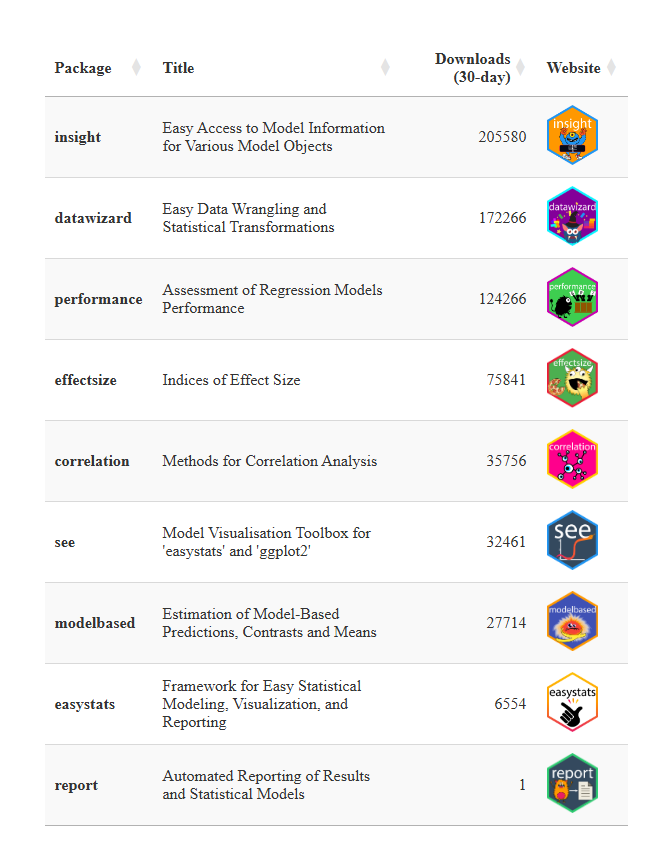
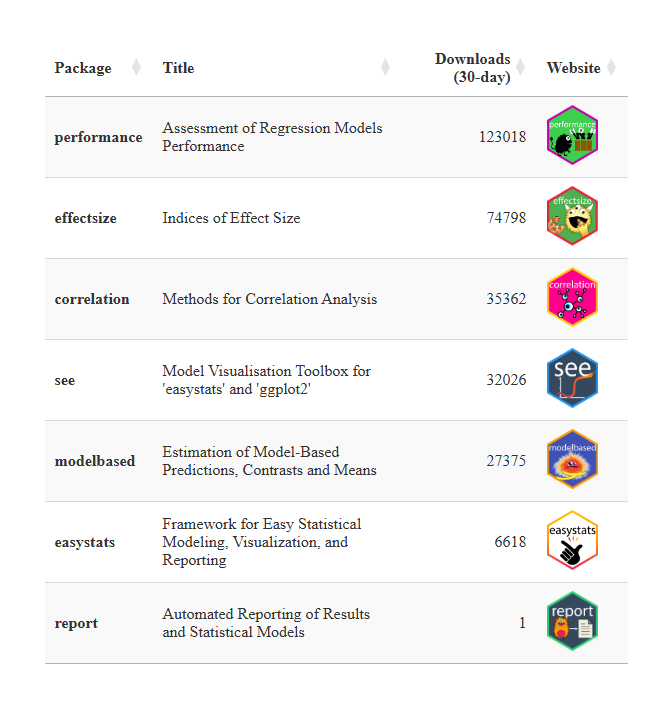
readme

diff --git a/index.html b/index.html
@@ -2856,26 +2856,26 @@ congratulations!</h1>
 
 <p>However, you might have more luck looking at my official website: <a href="https://remi-theriault.com/">https://remi-theriault.com/</a></p>
 <p>Also, kudos! As a bonus, you get to see the exclusive list of all my
-packages</p>
+packages:</p>
 <div id="cran-packages" class="section level3">
 <h3>CRAN Packages</h3>
-<div class="datatables html-widget html-fill-item" id="htmlwidget-690de99876a261b2a0b3" style="width:100%;height:auto;"></div>
-<script type="application/json" data-for="htmlwidget-690de99876a261b2a0b3">{"x":{"filter":"none","vertical":false,"data":[["<strong>rempsyc<\/strong>","<strong>lavaanExtra<\/strong>"],["Convenience Functions for Psychology","Convenience Functions for Package 'lavaan'"],[9792,682],["<a href=\"https://rempsyc.remi-theriault.com\" target=\"_blank\"><img src=\"https://rempsyc.remi-theriault.com/logo.png\" height=\"60\"><\/a>","<a href=\"https://lavaanExtra.remi-theriault.com\" target=\"_blank\"><img src=\"https://lavaanExtra.remi-theriault.com/logo.png\" height=\"60\"><\/a>"]],"container":"<table class=\"stripe hover row-border order-column\">\n  <thead>\n    <tr>\n      <th>Package<\/th>\n      <th>Title<\/th>\n      <th>Downloads (30-day)<\/th>\n      <th>Website<\/th>\n    <\/tr>\n  <\/thead>\n<\/table>","options":{"pageLength":25,"autoWidth":true,"dom":"t","columnDefs":[{"className":"dt-right","targets":2},{"name":"Package","targets":0},{"name":"Title","targets":1},{"name":"Downloads (30-day)","targets":2},{"name":"Website","targets":3}],"order":[],"orderClasses":false}},"evals":[],"jsHooks":[]}</script>
+<div class="datatables html-widget html-fill-item" id="htmlwidget-35331e03b09155016b00" style="width:100%;height:auto;"></div>
+<script type="application/json" data-for="htmlwidget-35331e03b09155016b00">{"x":{"filter":"none","vertical":false,"data":[["<strong>rempsyc<\/strong>","<strong>lavaanExtra<\/strong>"],["Convenience Functions for Psychology","Convenience Functions for Package 'lavaan'"],[9748,672],["<a href=\"https://rempsyc.remi-theriault.com\" target=\"_blank\"><img src=\"https://rempsyc.remi-theriault.com/logo.png\" height=\"60\"><\/a>","<a href=\"https://lavaanExtra.remi-theriault.com\" target=\"_blank\"><img src=\"https://lavaanExtra.remi-theriault.com/logo.png\" height=\"60\"><\/a>"]],"container":"<table class=\"stripe hover row-border order-column\">\n  <thead>\n    <tr>\n      <th>Package<\/th>\n      <th>Title<\/th>\n      <th>Downloads (30-day)<\/th>\n      <th>Website<\/th>\n    <\/tr>\n  <\/thead>\n<\/table>","options":{"pageLength":25,"autoWidth":true,"dom":"t","columnDefs":[{"className":"dt-right","targets":2},{"name":"Package","targets":0},{"name":"Title","targets":1},{"name":"Downloads (30-day)","targets":2},{"name":"Website","targets":3}],"order":[],"orderClasses":false}},"evals":[],"jsHooks":[]}</script>
 </div>
 <div id="easystats-packages" class="section level3">
 <h3>easystats Packages</h3>
-<div class="datatables html-widget html-fill-item" id="htmlwidget-a2650091af8654e7c194" style="width:100%;height:auto;"></div>
-<script type="application/json" data-for="htmlwidget-a2650091af8654e7c194">{"x":{"filter":"none","vertical":false,"data":[["<strong>insight<\/strong>","<strong>datawizard<\/strong>","<strong>performance<\/strong>","<strong>effectsize<\/strong>","<strong>correlation<\/strong>","<strong>see<\/strong>","<strong>modelbased<\/strong>","<strong>easystats<\/strong>","<strong>report<\/strong>"],["Easy Access to Model Information for Various Model Objects","Easy Data Wrangling and Statistical Transformations","Assessment of Regression Models Performance","Indices of Effect Size","Methods for Correlation Analysis","Model Visualisation Toolbox for 'easystats' and 'ggplot2'","Estimation of Model-Based Predictions, Contrasts and Means","Framework for Easy Statistical Modeling, Visualization, and\nReporting","Automated Reporting of Results and Statistical Models"],[205580,172266,124266,75841,35756,32461,27714,6554,1],["<a href=\"https://easystats.github.io/insight/\" target=\"_blank\"><img src=\"https://easystats.github.io/insight//logo.png\" height=\"60\"><\/a>","<a href=\"https://easystats.github.io/datawizard/\" target=\"_blank\"><img src=\"https://easystats.github.io/datawizard//logo.png\" height=\"60\"><\/a>","<a href=\"https://easystats.github.io/performance/\" target=\"_blank\"><img src=\"https://easystats.github.io/performance//logo.png\" height=\"60\"><\/a>","<a href=\"https://easystats.github.io/effectsize/\" target=\"_blank\"><img src=\"https://easystats.github.io/effectsize//logo.png\" height=\"60\"><\/a>","<a href=\"https://easystats.github.io/correlation/\" target=\"_blank\"><img src=\"https://easystats.github.io/correlation//logo.png\" height=\"60\"><\/a>","<a href=\"https://easystats.github.io/see/\" target=\"_blank\"><img src=\"https://easystats.github.io/see//logo.png\" height=\"60\"><\/a>","<a href=\"https://easystats.github.io/modelbased/\" target=\"_blank\"><img src=\"https://easystats.github.io/modelbased//logo.png\" height=\"60\"><\/a>","<a href=\"https://easystats.github.io/easystats/\" target=\"_blank\"><img src=\"https://easystats.github.io/easystats//logo.png\" height=\"60\"><\/a>","<a href=\"https://easystats.github.io/report/\" target=\"_blank\"><img src=\"https://easystats.github.io/report//logo.png\" height=\"60\"><\/a>"]],"container":"<table class=\"stripe hover row-border order-column\">\n  <thead>\n    <tr>\n      <th>Package<\/th>\n      <th>Title<\/th>\n      <th>Downloads (30-day)<\/th>\n      <th>Website<\/th>\n    <\/tr>\n  <\/thead>\n<\/table>","options":{"pageLength":25,"autoWidth":true,"dom":"t","columnDefs":[{"className":"dt-right","targets":2},{"name":"Package","targets":0},{"name":"Title","targets":1},{"name":"Downloads (30-day)","targets":2},{"name":"Website","targets":3}],"order":[],"orderClasses":false}},"evals":[],"jsHooks":[]}</script>
+<div class="datatables html-widget html-fill-item" id="htmlwidget-966ef5a893ee74f2fa96" style="width:100%;height:auto;"></div>
+<script type="application/json" data-for="htmlwidget-966ef5a893ee74f2fa96">{"x":{"filter":"none","vertical":false,"data":[["<strong>performance<\/strong>","<strong>effectsize<\/strong>","<strong>correlation<\/strong>","<strong>see<\/strong>","<strong>modelbased<\/strong>","<strong>easystats<\/strong>","<strong>report<\/strong>"],["Assessment of Regression Models Performance","Indices of Effect Size","Methods for Correlation Analysis","Model Visualisation Toolbox for 'easystats' and 'ggplot2'","Estimation of Model-Based Predictions, Contrasts and Means","Framework for Easy Statistical Modeling, Visualization, and\nReporting","Automated Reporting of Results and Statistical Models"],[123018,74798,35362,32026,27375,6618,1],["<a href=\"https://easystats.github.io/performance/\" target=\"_blank\"><img src=\"https://easystats.github.io/performance//logo.png\" height=\"60\"><\/a>","<a href=\"https://easystats.github.io/effectsize/\" target=\"_blank\"><img src=\"https://easystats.github.io/effectsize//logo.png\" height=\"60\"><\/a>","<a href=\"https://easystats.github.io/correlation/\" target=\"_blank\"><img src=\"https://easystats.github.io/correlation//logo.png\" height=\"60\"><\/a>","<a href=\"https://easystats.github.io/see/\" target=\"_blank\"><img src=\"https://easystats.github.io/see//logo.png\" height=\"60\"><\/a>","<a href=\"https://easystats.github.io/modelbased/\" target=\"_blank\"><img src=\"https://easystats.github.io/modelbased//logo.png\" height=\"60\"><\/a>","<a href=\"https://easystats.github.io/easystats/\" target=\"_blank\"><img src=\"https://easystats.github.io/easystats//logo.png\" height=\"60\"><\/a>","<a href=\"https://easystats.github.io/report/\" target=\"_blank\"><img src=\"https://easystats.github.io/report//logo.png\" height=\"60\"><\/a>"]],"container":"<table class=\"stripe hover row-border order-column\">\n  <thead>\n    <tr>\n      <th>Package<\/th>\n      <th>Title<\/th>\n      <th>Downloads (30-day)<\/th>\n      <th>Website<\/th>\n    <\/tr>\n  <\/thead>\n<\/table>","options":{"pageLength":25,"autoWidth":true,"dom":"t","columnDefs":[{"className":"dt-right","targets":2},{"name":"Package","targets":0},{"name":"Title","targets":1},{"name":"Downloads (30-day)","targets":2},{"name":"Website","targets":3}],"order":[],"orderClasses":false}},"evals":[],"jsHooks":[]}</script>
 </div>
 <div id="packages-on-r-universe-only" class="section level3">
 <h3>Packages on R-Universe Only</h3>
-<div class="datatables html-widget html-fill-item" id="htmlwidget-0be0a4c540cc5ffd5967" style="width:100%;height:auto;"></div>
-<script type="application/json" data-for="htmlwidget-0be0a4c540cc5ffd5967">{"x":{"filter":"none","vertical":false,"data":[["<strong>adhoc<\/strong>","<strong>githubContributors<\/strong>","<strong>flightanalysis<\/strong>","<strong>pubDashboard<\/strong>"],["Ad hoc functions to help friends","Ordering authorships for R packages hosted on GitHub","Google Flight Analysis and Scraping","Creating Publication Data Visualization Dashboards"],[31,0,0,0],["<a href=\"https://rempsyc.github.io/adhoc/\" target=\"_blank\"><img src=\"https://rempsyc.github.io/adhoc//logo.png\" height=\"60\"><\/a>","<a href=\"https://rempsyc.github.io/githubContributors/\" target=\"_blank\"><img src=\"https://rempsyc.github.io/githubContributors//logo.png\" height=\"60\"><\/a>","<a href=\"https://rempsyc.github.io/flightanalysis/\" target=\"_blank\"><img src=\"https://rempsyc.github.io/flightanalysis//logo.png\" height=\"60\"><\/a>","<a href=\"https://rempsyc.github.io/pubDashboard/\" target=\"_blank\"><img src=\"https://rempsyc.github.io/pubDashboard//logo.png\" height=\"60\"><\/a>"]],"container":"<table class=\"stripe hover row-border order-column\">\n  <thead>\n    <tr>\n      <th>Package<\/th>\n      <th>Title<\/th>\n      <th>Downloads (30-day)<\/th>\n      <th>Website<\/th>\n    <\/tr>\n  <\/thead>\n<\/table>","options":{"pageLength":25,"autoWidth":true,"dom":"t","columnDefs":[{"className":"dt-right","targets":2},{"name":"Package","targets":0},{"name":"Title","targets":1},{"name":"Downloads (30-day)","targets":2},{"name":"Website","targets":3}],"order":[],"orderClasses":false}},"evals":[],"jsHooks":[]}</script>
+<div class="datatables html-widget html-fill-item" id="htmlwidget-9909ac26f9332e746279" style="width:100%;height:auto;"></div>
+<script type="application/json" data-for="htmlwidget-9909ac26f9332e746279">{"x":{"filter":"none","vertical":false,"data":[["<strong>adhoc<\/strong>","<strong>flightanalysis<\/strong>","<strong>githubContributors<\/strong>","<strong>pubDashboard<\/strong>"],["Ad hoc functions to help friends","Find the best flights","Ordering authorships for R packages hosted on GitHub","Creating Publication Data Visualization Dashboards"],[31,0,0,0],["<a href=\"https://rempsyc.github.io/adhoc/\" target=\"_blank\"><img src=\"https://rempsyc.github.io/adhoc//logo.png\" height=\"60\"><\/a>","<a href=\"https://rempsyc.github.io/flightanalysis/\" target=\"_blank\"><img src=\"https://rempsyc.github.io/flightanalysis//logo.png\" height=\"60\"><\/a>","<a href=\"https://rempsyc.github.io/githubContributors/\" target=\"_blank\"><img src=\"https://rempsyc.github.io/githubContributors//logo.png\" height=\"60\"><\/a>","<a href=\"https://rempsyc.github.io/pubDashboard/\" target=\"_blank\"><img src=\"https://rempsyc.github.io/pubDashboard//logo.png\" height=\"60\"><\/a>"]],"container":"<table class=\"stripe hover row-border order-column\">\n  <thead>\n    <tr>\n      <th>Package<\/th>\n      <th>Title<\/th>\n      <th>Downloads (30-day)<\/th>\n      <th>Website<\/th>\n    <\/tr>\n  <\/thead>\n<\/table>","options":{"pageLength":25,"autoWidth":true,"dom":"t","columnDefs":[{"className":"dt-right","targets":2},{"name":"Package","targets":0},{"name":"Title","targets":1},{"name":"Downloads (30-day)","targets":2},{"name":"Website","targets":3}],"order":[],"orderClasses":false}},"evals":[],"jsHooks":[]}</script>
 </div>
 <div id="other-contributions" class="section level3">
 <h3>Other Contributions</h3>
-<div class="datatables html-widget html-fill-item" id="htmlwidget-f2f7eb81e6a959f024ae" style="width:100%;height:auto;"></div>
-<script type="application/json" data-for="htmlwidget-f2f7eb81e6a959f024ae">{"x":{"filter":"none","vertical":false,"data":[["<strong>insight<\/strong>","<strong>datawizard<\/strong>","<strong>flextable<\/strong>"],["Easy Access to Model Information for Various Model Objects","Easy Data Wrangling and Statistical Transformations","Functions for Tabular Reporting"],[205580,172266,94614],["<a href=\"https://easystats.github.io/insight/\" target=\"_blank\"><img src=\"https://easystats.github.io/insight//logo.png\" height=\"60\"><\/a>","<a href=\"https://easystats.github.io/datawizard/\" target=\"_blank\"><img src=\"https://easystats.github.io/datawizard//logo.png\" height=\"60\"><\/a>","<a href=\"https://davidgohel.github.io/flextable/\" target=\"_blank\"><img src=\"https://davidgohel.github.io/flextable//logo.png\" height=\"60\"><\/a>"]],"container":"<table class=\"stripe hover row-border order-column\">\n  <thead>\n    <tr>\n      <th>Package<\/th>\n      <th>Title<\/th>\n      <th>Downloads (30-day)<\/th>\n      <th>Website<\/th>\n    <\/tr>\n  <\/thead>\n<\/table>","options":{"pageLength":25,"autoWidth":true,"dom":"t","columnDefs":[{"className":"dt-right","targets":2},{"name":"Package","targets":0},{"name":"Title","targets":1},{"name":"Downloads (30-day)","targets":2},{"name":"Website","targets":3}],"order":[],"orderClasses":false}},"evals":[],"jsHooks":[]}</script>
+<div class="datatables html-widget html-fill-item" id="htmlwidget-d1b716adf0af3021bf4f" style="width:100%;height:auto;"></div>
+<script type="application/json" data-for="htmlwidget-d1b716adf0af3021bf4f">{"x":{"filter":"none","vertical":false,"data":[["<strong>insight<\/strong>","<strong>datawizard<\/strong>","<strong>flextable<\/strong>"],["Easy Access to Model Information for Various Model Objects","Easy Data Wrangling and Statistical Transformations","Functions for Tabular Reporting"],[203678,169753,93093],["<a href=\"https://easystats.github.io/insight/\" target=\"_blank\"><img src=\"https://easystats.github.io/insight//logo.png\" height=\"60\"><\/a>","<a href=\"https://easystats.github.io/datawizard/\" target=\"_blank\"><img src=\"https://easystats.github.io/datawizard//logo.png\" height=\"60\"><\/a>","<a href=\"https://davidgohel.github.io/flextable/\" target=\"_blank\"><img src=\"https://davidgohel.github.io/flextable//logo.png\" height=\"60\"><\/a>"]],"container":"<table class=\"stripe hover row-border order-column\">\n  <thead>\n    <tr>\n      <th>Package<\/th>\n      <th>Title<\/th>\n      <th>Downloads (30-day)<\/th>\n      <th>Website<\/th>\n    <\/tr>\n  <\/thead>\n<\/table>","options":{"pageLength":25,"autoWidth":true,"dom":"t","columnDefs":[{"className":"dt-right","targets":2},{"name":"Package","targets":0},{"name":"Title","targets":1},{"name":"Downloads (30-day)","targets":2},{"name":"Website","targets":3}],"order":[],"orderClasses":false}},"evals":[],"jsHooks":[]}</script>
 </div>
 
 

diff --git a/README.md b/README.md
@@ -5,7 +5,7 @@ However, you might have more luck looking at my official website:
 <https://remi-theriault.com/>
 
 Also, kudos! As a bonus, you get to see the exclusive list of all my
-packages
+packages:
 
 ### CRAN Packages
 
